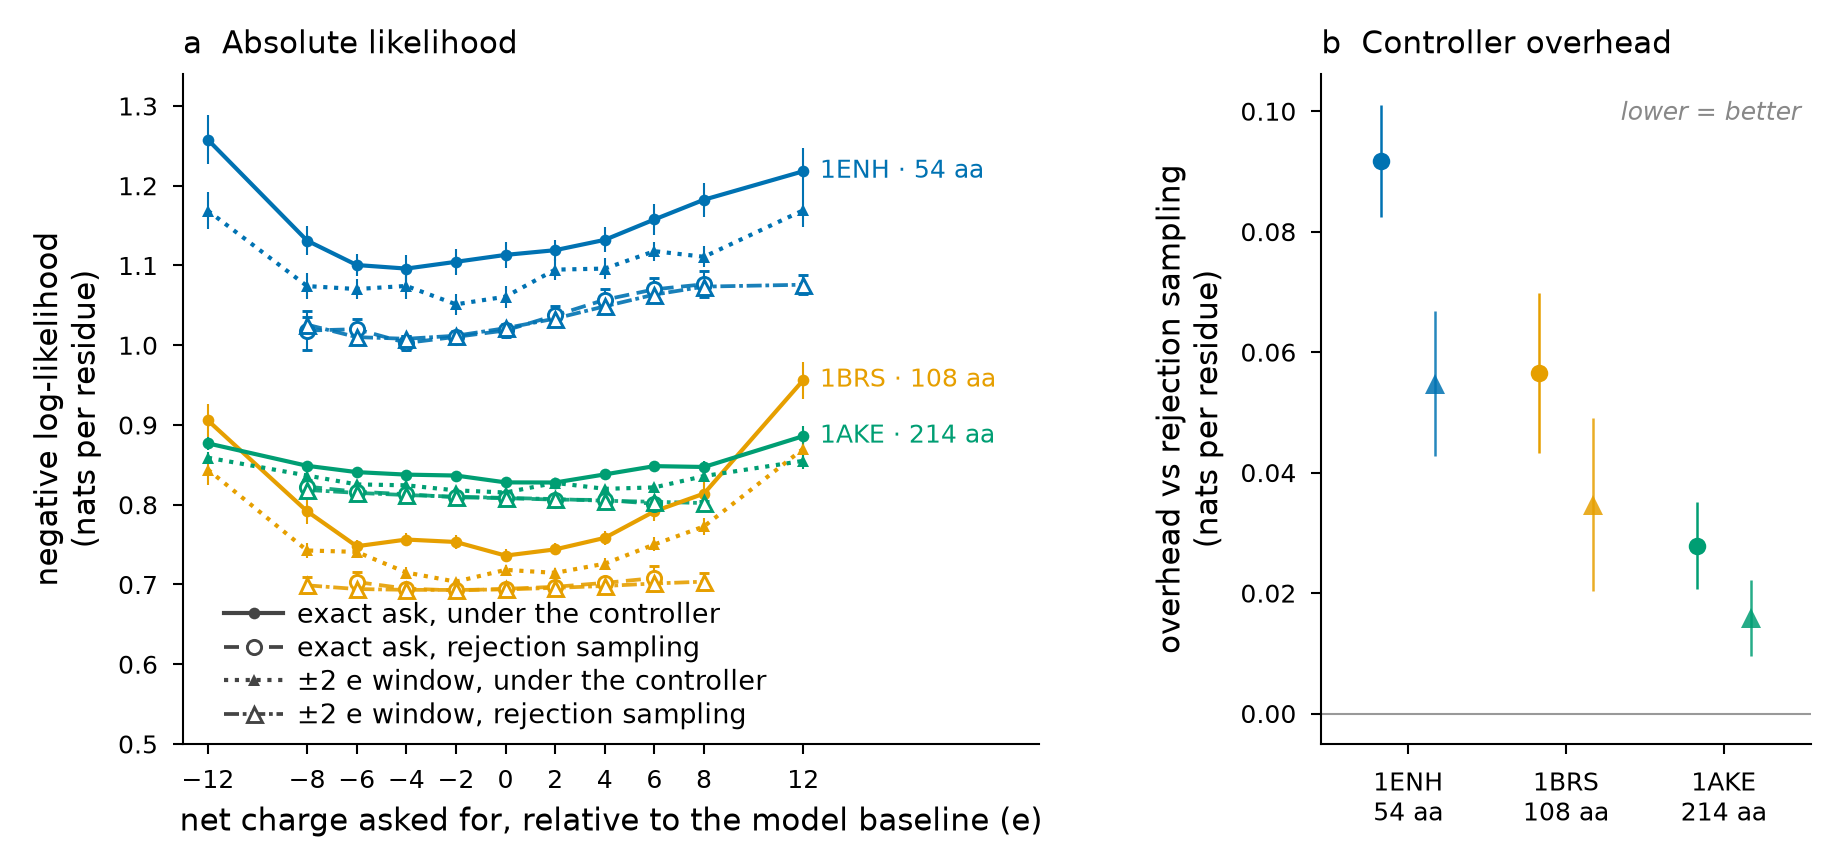
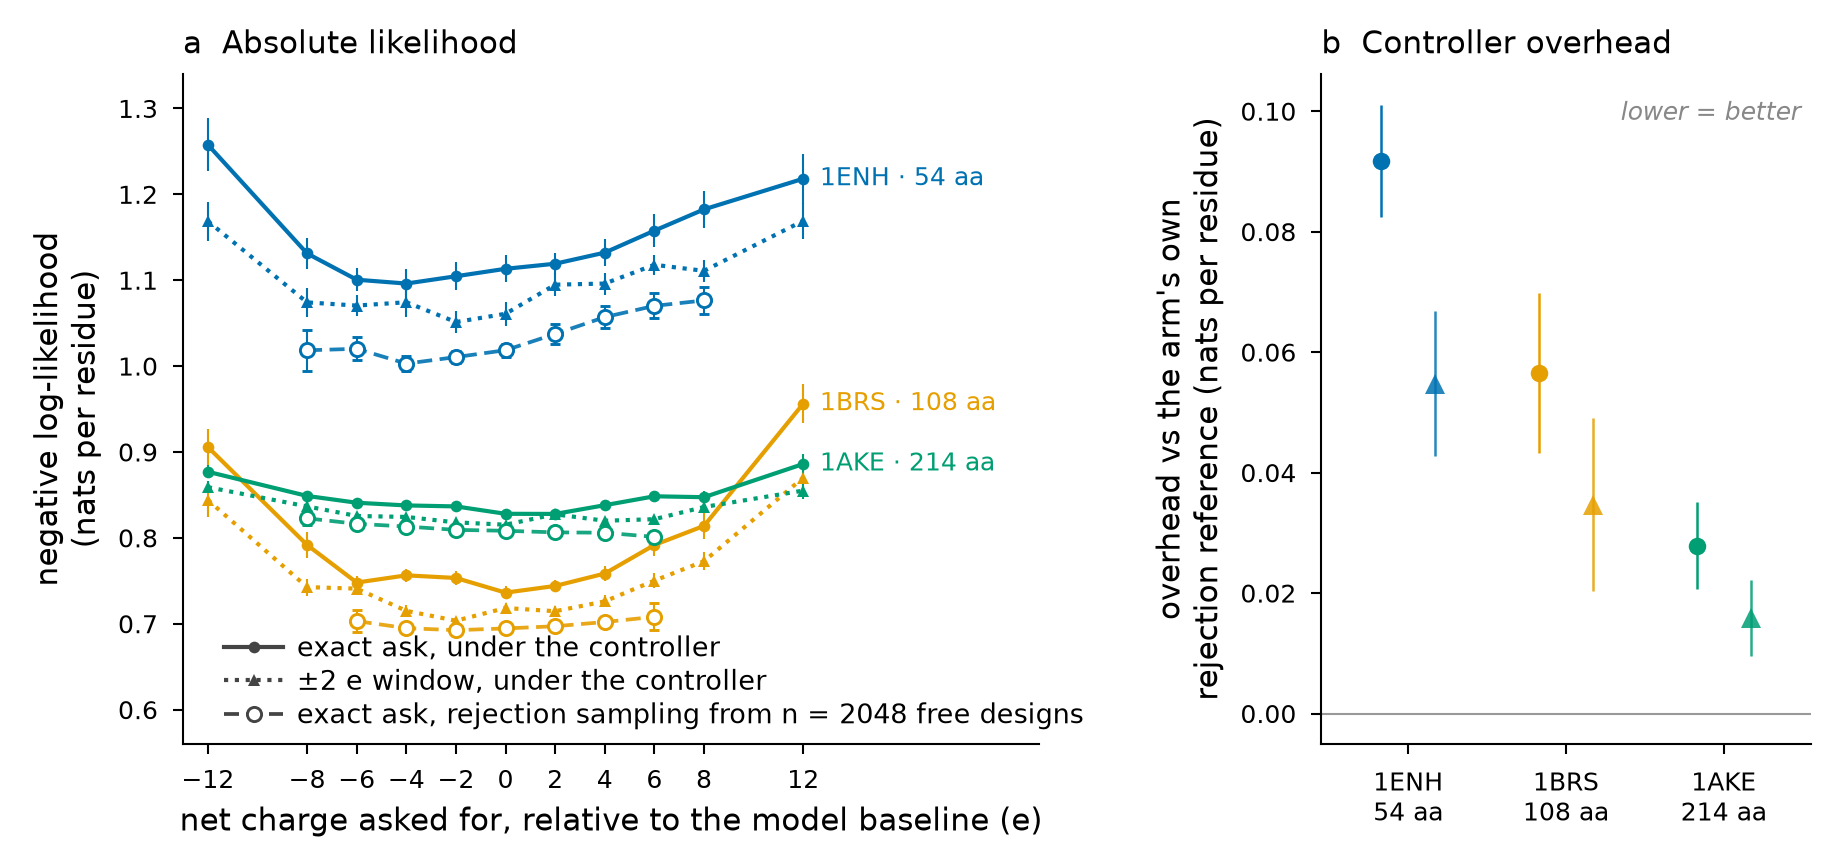
benchmarks: drop the window rejection series from the tolerance figure
Panel (a) now carries three series per backbone instead of four: the two
decoded arms plus the exact-charge rejection reference, whose legend entry
names the 2048-design free pool it is sampled from so the partial coverage
explains itself. Panel (b) is unchanged and still compares each arm with its
own reference; the docs page says so explicitly.

diff --git a/benchmarks/plot_charge_tolerance.py b/benchmarks/plot_charge_tolerance.py
@@ -4,9 +4,10 @@ Reads benchmarks/results/charge_tolerance_summary.csv (written by benchmarks/cha
 and writes benchmarks/results/charge_tolerance.png.
 
 Panel (a) is the absolute per-residue negative log-likelihood against the charge asked for, with
-four series per backbone: each arm decoded under the controller, and each arm's own
-rejection-sampling reference drawn from the same unconstrained pool. Panel (b) reduces each
-backbone to the mean overhead of the controller over that reference, one marker per arm.
+three series per backbone: the two arms decoded under the controller, and the exact-charge
+reference reached by rejection sampling from the free pool. That reference covers only the charges
+the pool actually produced, so it is shorter than the two decoded series. Panel (b) reduces each
+backbone to the mean overhead of the controller over that arm's own rejection reference.
 """
 import os
 import sys
@@ -69,15 +70,14 @@ def main() -> int:
                                 color=colour, marker=marker, ms=size, mfc=colour, mew=0, ls='none',
                                 elinewidth=0.5, capsize=1.2, zorder=4)
 
-        # each arm's own rejection-sampling reference, plotted only where the pool supplied one
-        for arm, marker, dashes, size in ((exact, 'o', (0, (4, 2)), 3.4), (window, '^', (0, (4, 1, 1, 1)), 3.6)):
-            reference = arm[arm.n_rejection > 0]
-            likelihood.plot(reference.offset, reference.rejection_nll, color=colour, lw=0.9,
-                            ls=dashes, alpha=0.9, zorder=2)
-            likelihood.errorbar(reference.offset, reference.rejection_nll,
-                                yerr=[interval(s, n) for s, n in zip(reference.rejection_sd, reference.n_rejection)],
-                                color=colour, marker=marker, ms=size, mfc='white', mec=colour, mew=0.7,
-                                ls='none', elinewidth=0.5, capsize=1.2, zorder=4)
+        # the exact-charge reference reached by rejection sampling, where the pool supplied one
+        reference = exact[exact.n_rejection > 0]
+        likelihood.plot(reference.offset, reference.rejection_nll, color=colour, lw=0.9,
+                        ls=(0, (4, 2)), alpha=0.9, zorder=2)
+        likelihood.errorbar(reference.offset, reference.rejection_nll,
+                            yerr=[interval(s, n) for s, n in zip(reference.rejection_sd, reference.n_rejection)],
+                            color=colour, marker='o', ms=3.4, mfc='white', mec=colour, mew=0.7,
+                            ls='none', elinewidth=0.5, capsize=1.2, zorder=4)
 
         last = exact.iloc[-1]
         likelihood.annotate(f'{backbone} · {int(rows.length.iloc[0])} aa',
@@ -89,18 +89,18 @@ def main() -> int:
     likelihood.set_title('a  Absolute likelihood', loc='left')
     likelihood.set_xticks(offsets)
     likelihood.set_xlim(offsets[0] - 1.0, offsets[-1] + 9.5)
-    likelihood.set_ylim(0.50, 1.34)
+    likelihood.set_ylim(0.56, 1.34)
 
     import matplotlib.lines as mlines
+    pool = int(summary.n_pool.iloc[0])
     key = [
         (mlines.Line2D([], [], color='#444444', marker='o', ms=2.8, mfc='#444444', mew=0, ls='-', lw=1.0),
          'exact ask, under the controller'),
-        (mlines.Line2D([], [], color='#444444', marker='o', ms=3.4, mfc='white', mec='#444444', mew=0.7,
-                       ls=(0, (4, 2)), lw=0.9), 'exact ask, rejection sampling'),
         (mlines.Line2D([], [], color='#444444', marker='^', ms=3.0, mfc='#444444', mew=0, ls=(0, (1, 1.6)), lw=1.0),
          f'±{tolerance:g} e window, under the controller'),
-        (mlines.Line2D([], [], color='#444444', marker='^', ms=3.6, mfc='white', mec='#444444', mew=0.7,
-                       ls=(0, (4, 1, 1, 1)), lw=0.9), f'±{tolerance:g} e window, rejection sampling'),
+        (mlines.Line2D([], [], color='#444444', marker='o', ms=3.4, mfc='white', mec='#444444', mew=0.7,
+                       ls=(0, (4, 2)), lw=0.9),
+         f'exact ask, rejection sampling from n = {pool} free designs'),
     ]
     likelihood.legend([handle for handle, _ in key], [label for _, label in key],
                       loc='lower left', bbox_to_anchor=(0.035, 0.005), handlelength=2.2,
@@ -124,7 +124,7 @@ def main() -> int:
     overhead.set_xticklabels([f'{backbone}\n{int(summary.loc[summary.backbone == backbone, "length"].iloc[0])} aa'
                               for backbone in order])
     overhead.set_xlim(-0.55, len(order) - 0.45)
-    overhead.set_ylabel('overhead vs rejection sampling\n(nats per residue)', labelpad=3)
+    overhead.set_ylabel("overhead vs the arm's own\nrejection reference (nats per residue)", labelpad=3)
     overhead.set_title('b  Controller overhead', loc='left')
     overhead.text(0.98, 0.96, 'lower = better', transform=overhead.transAxes, ha='right', va='top',
                   fontsize=TINY, color='#888888', style='italic')

diff --git a/docs/source/charge-tolerance-benchmark.md b/docs/source/charge-tolerance-benchmark.md
@@ -36,6 +36,15 @@ per-design rows are in `charge_tolerance_designs.csv`.
 
 ![exact ask versus a +-2 e window](charge_tolerance.png)
 
+Panel (a) carries three series per backbone: the two arms as decoded under the controller, and the
+exact-charge reference reached by rejection sampling from that backbone's 2048 free designs. The
+reference stops where the pool does — a charge the pool never produced in 2048 draws has nothing to
+sample, and a charge it produced fewer than ten times is dropped as too noisy to average — which is
+why the hollow series is shorter than the two decoded ones and why rejection sampling is not a
+usable design method for a charge far from the model's preference. Panel (b) compares each arm with
+its own reference, so the window arm's reference there is the pool designs anywhere in c +- 2 rather
+than the hollow series drawn in panel (a).
+
 **The window is cheaper at every single target.** Across all 33 backbone x target combinations the
 window arm has lower per-residue negative log-likelihood than the exact arm, with no exceptions
 (paired t over the 33 differences, t = -9.19, p = 1.7e-10). Mean saving per backbone:
